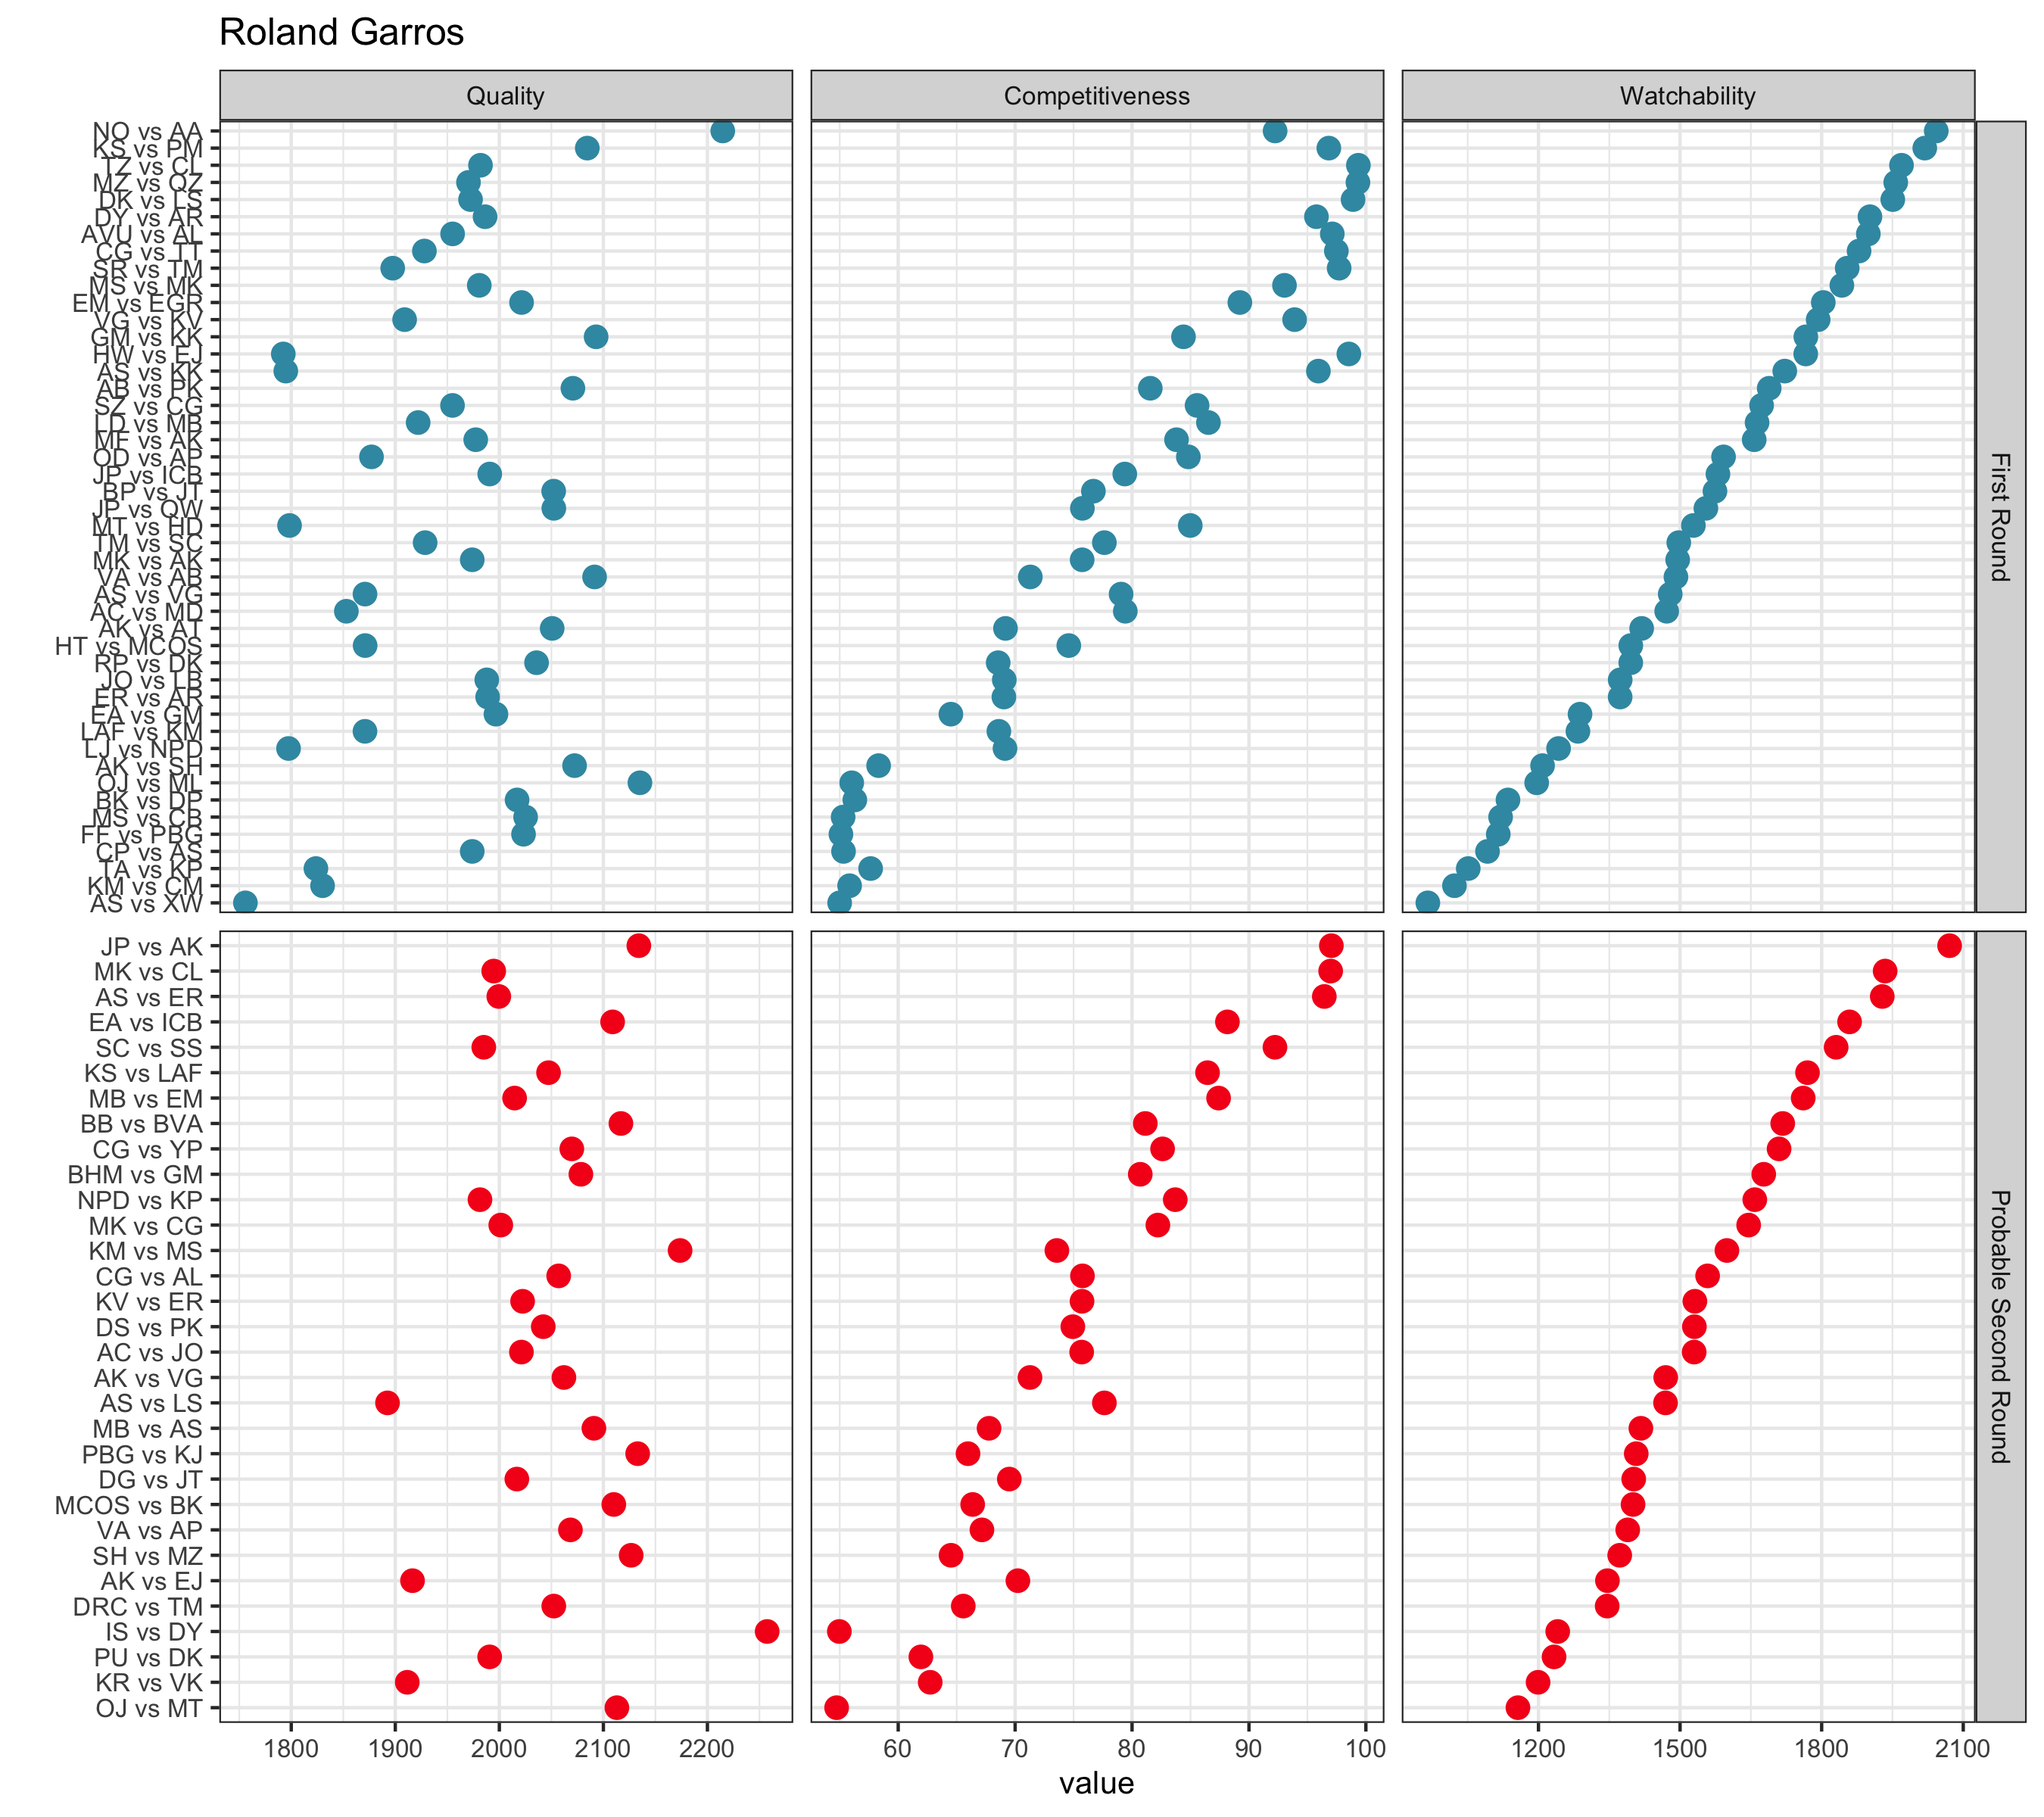
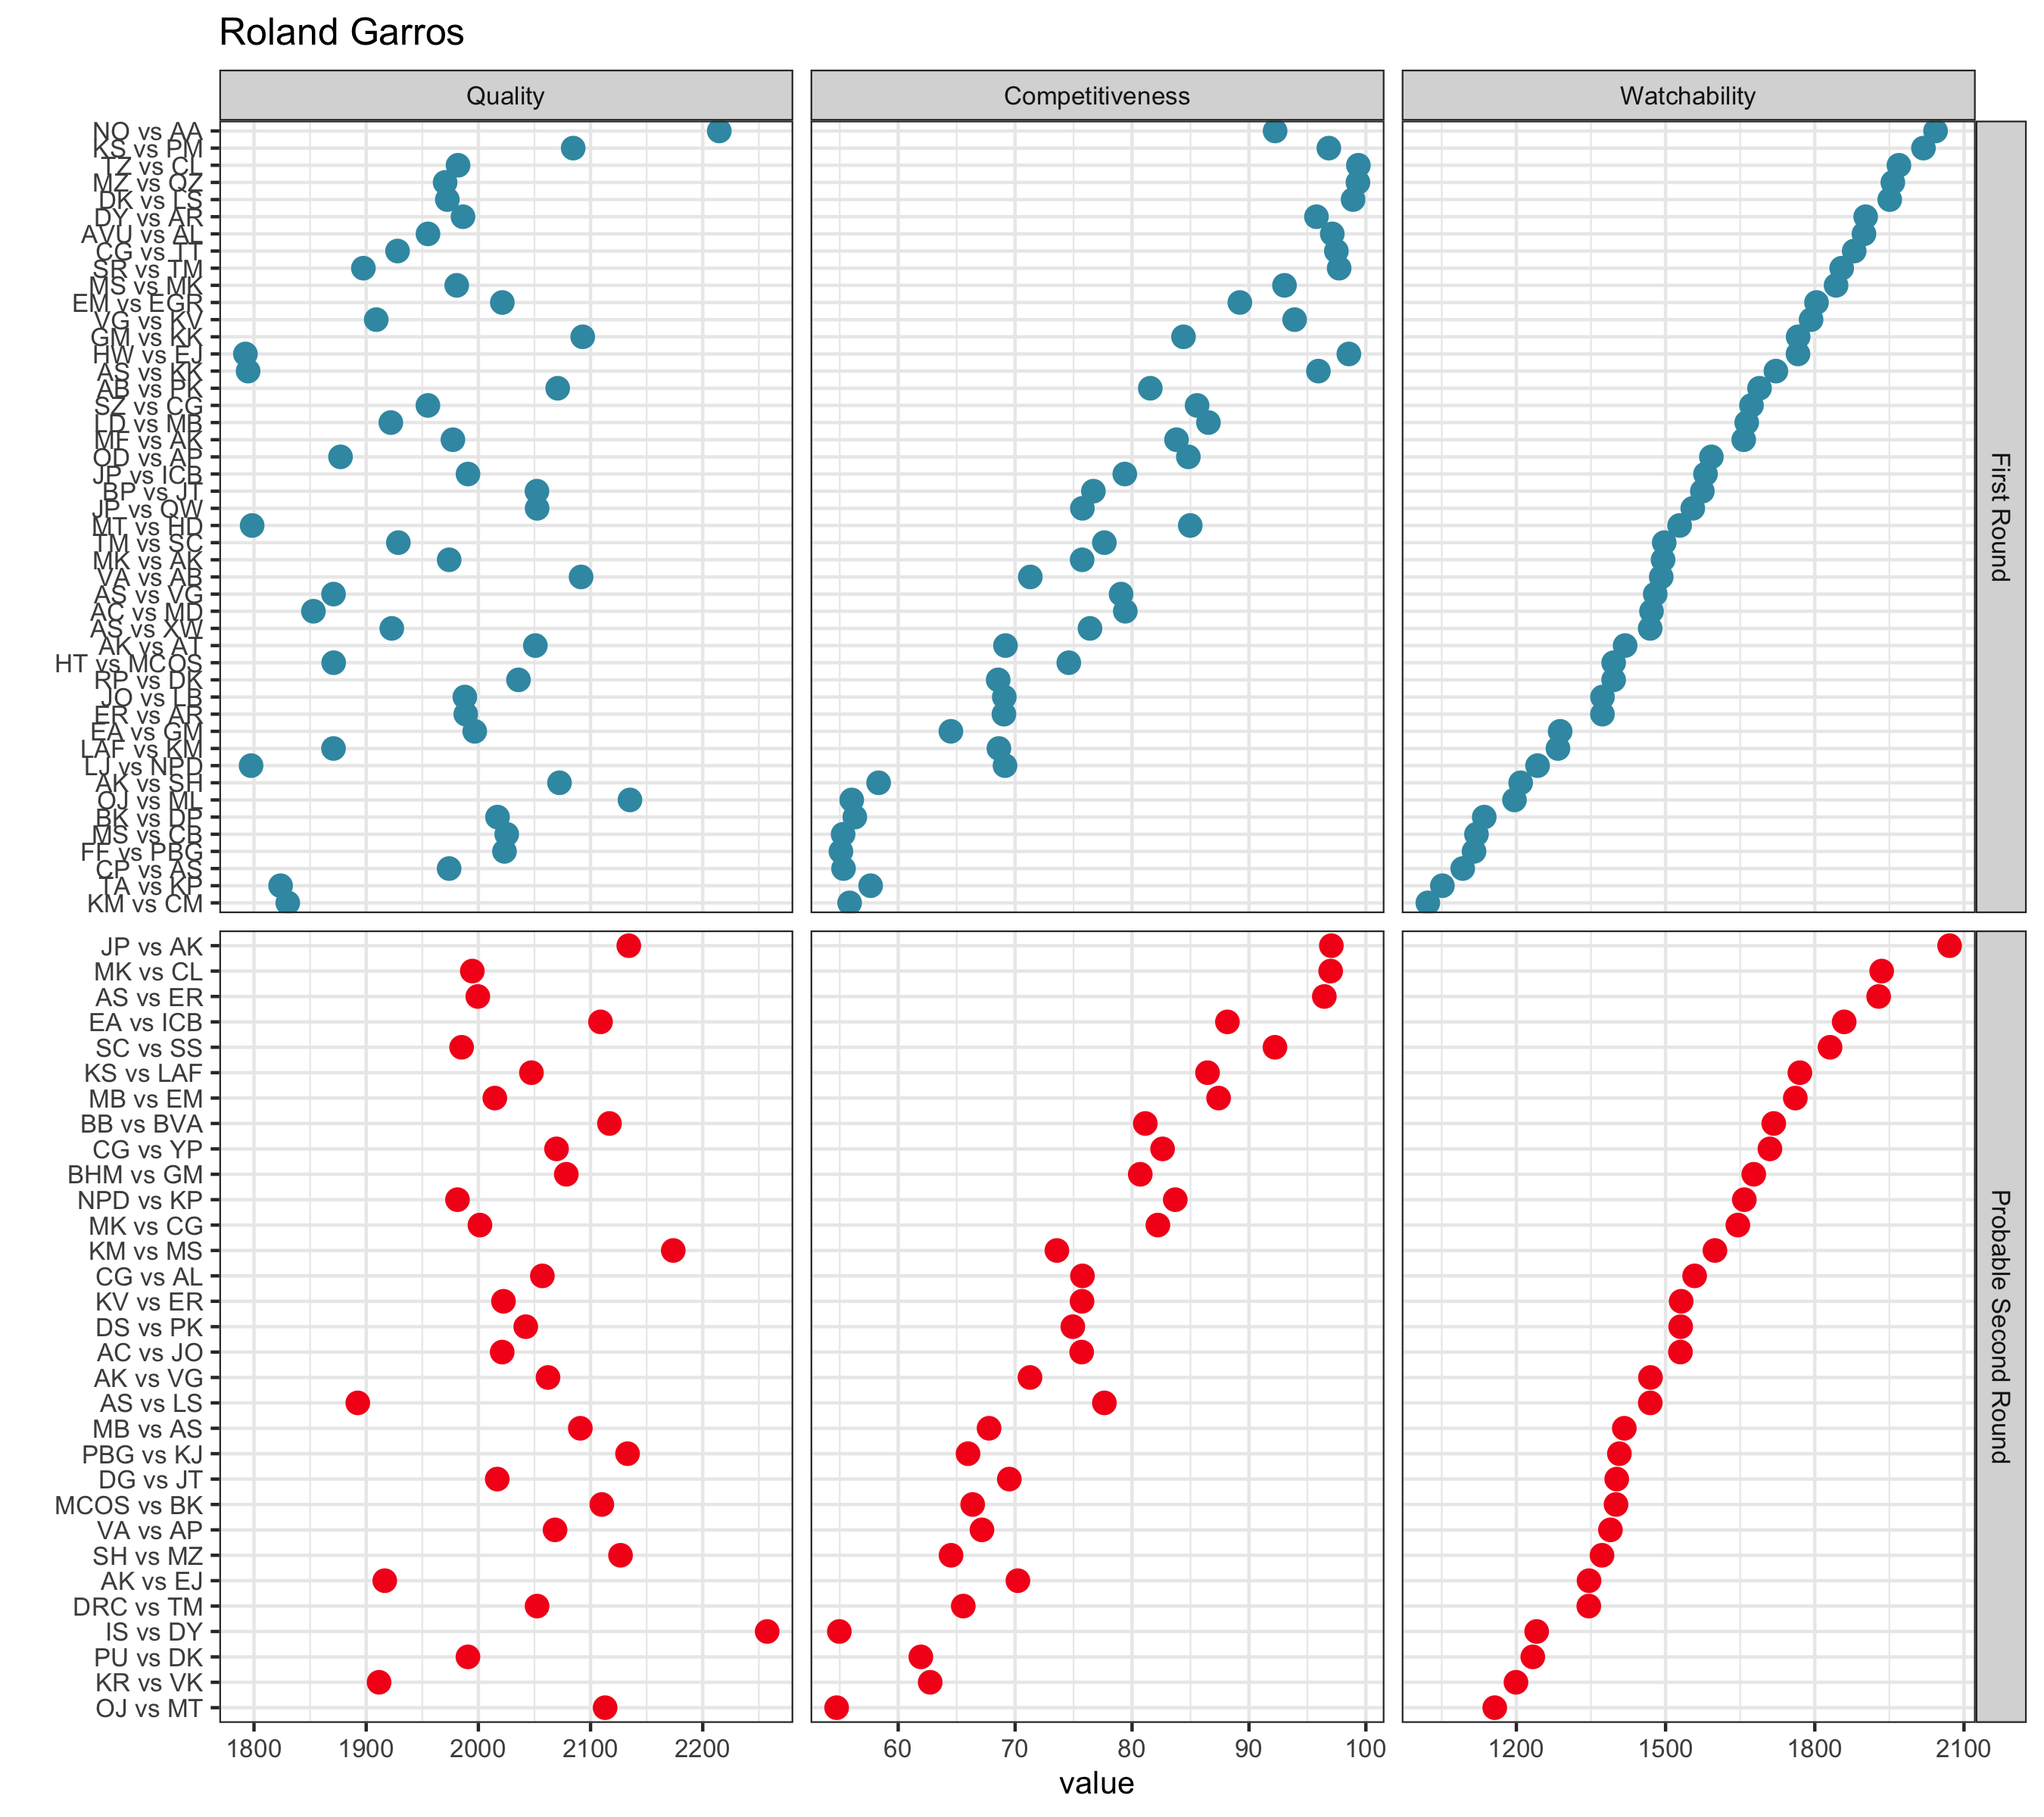
rebuilding site Fri 20 May 2022 11:37:43 CEST

diff --git a/2022/05/20/Roland-Garros-Women's-Watchability-Ratings/index.html b/2022/05/20/Roland-Garros-Women's-Watchability-Ratings/index.html
@@ -370,6 +370,13 @@ if (!doNotTrack) {
 <td style='text-align: center;'>1472</td>
 </tr>
 <tr>
+<td style='text-align: center;'>Aliaksandra Sasnovich</td>
+<td style='text-align: center;'>Xinyu Wang</td>
+<td style='text-align: center;'>1922.8</td>
+<td style='text-align: center;'>76.4</td>
+<td style='text-align: center;'>1469</td>
+</tr>
+<tr>
 <td style='text-align: center;'>Anett Kontaveit</td>
 <td style='text-align: center;'>Ajla Tomljanovic</td>
 <td style='text-align: center;'>2050.8</td>
@@ -475,18 +482,11 @@ if (!doNotTrack) {
 <td style='text-align: center;'>1051</td>
 </tr>
 <tr>
-<td style='text-align: center;'>Karolina Muchova</td>
-<td style='text-align: center;'>Carole Monnet</td>
-<td style='text-align: center;'>1830.1</td>
-<td style='text-align: center;'>55.8</td>
-<td style='text-align: center;'>1022</td>
-</tr>
-<tr>
-<td style='border-bottom: 2px solid grey; text-align: center;'>Aliaksandra Sasnovich</td>
-<td style='border-bottom: 2px solid grey; text-align: center;'>Xinyu.*Wang</td>
-<td style='border-bottom: 2px solid grey; text-align: center;'>1755.9</td>
-<td style='border-bottom: 2px solid grey; text-align: center;'>55.0</td>
-<td style='border-bottom: 2px solid grey; text-align: center;'>966</td>
+<td style='border-bottom: 2px solid grey; text-align: center;'>Karolina Muchova</td>
+<td style='border-bottom: 2px solid grey; text-align: center;'>Carole Monnet</td>
+<td style='border-bottom: 2px solid grey; text-align: center;'>1830.1</td>
+<td style='border-bottom: 2px solid grey; text-align: center;'>55.8</td>
+<td style='border-bottom: 2px solid grey; text-align: center;'>1022</td>
 </tr>
 </tbody>
 </table>
